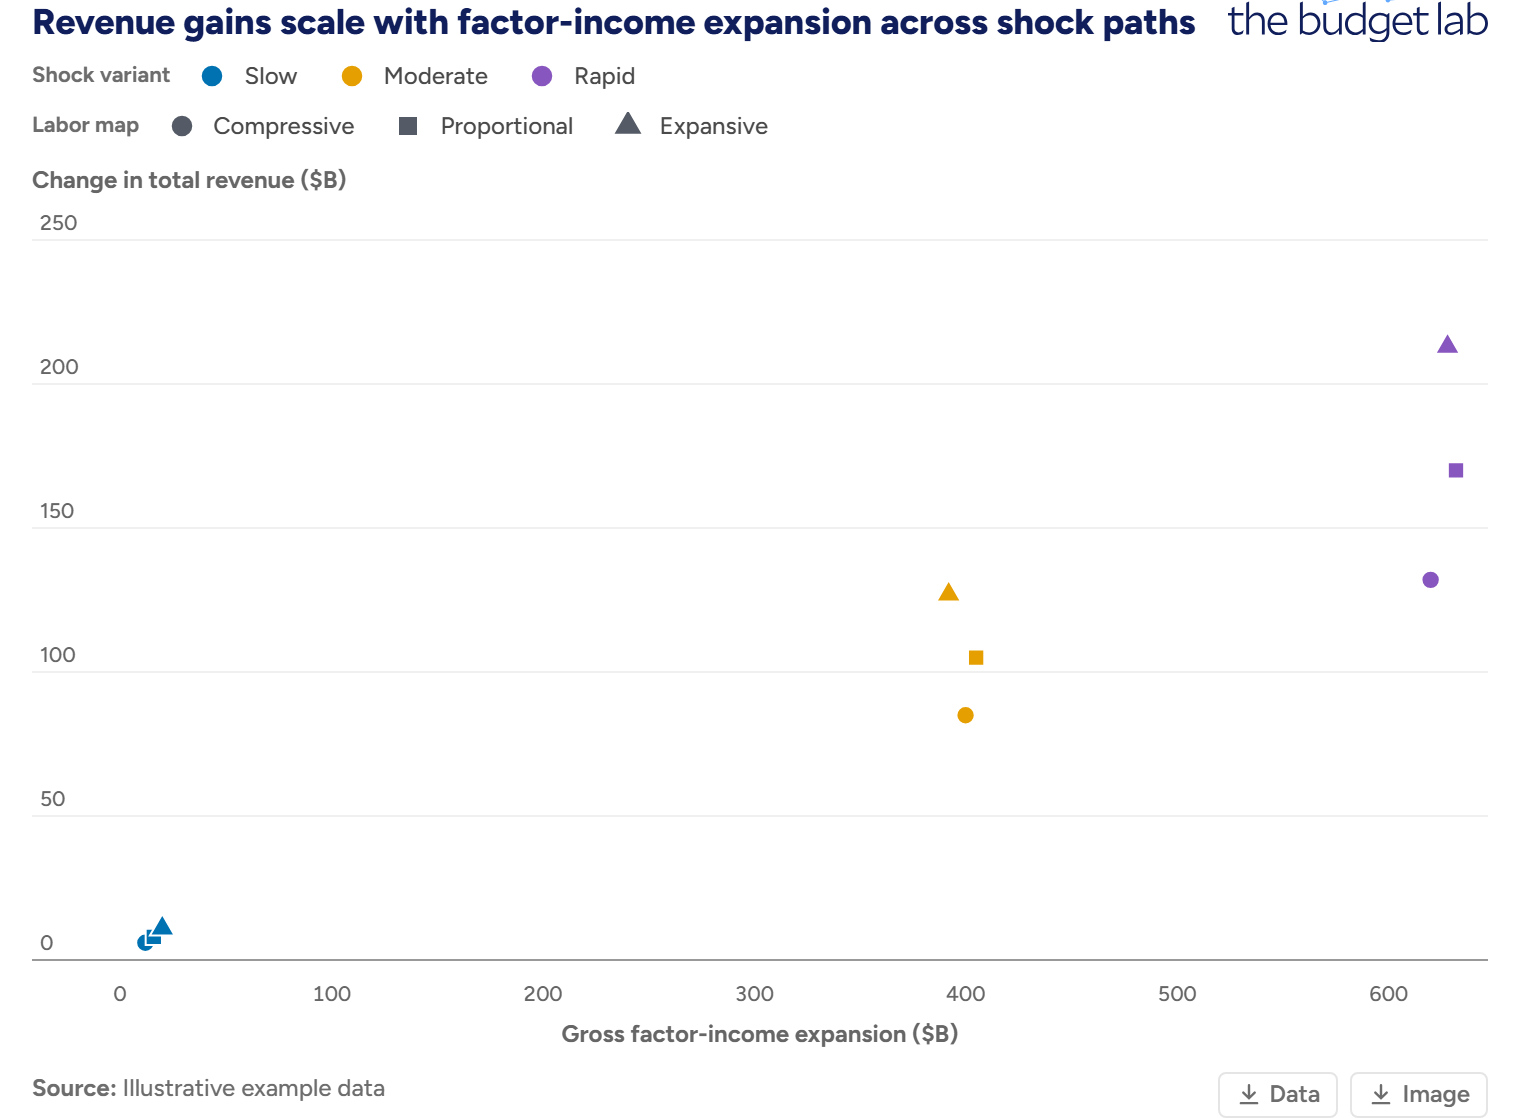
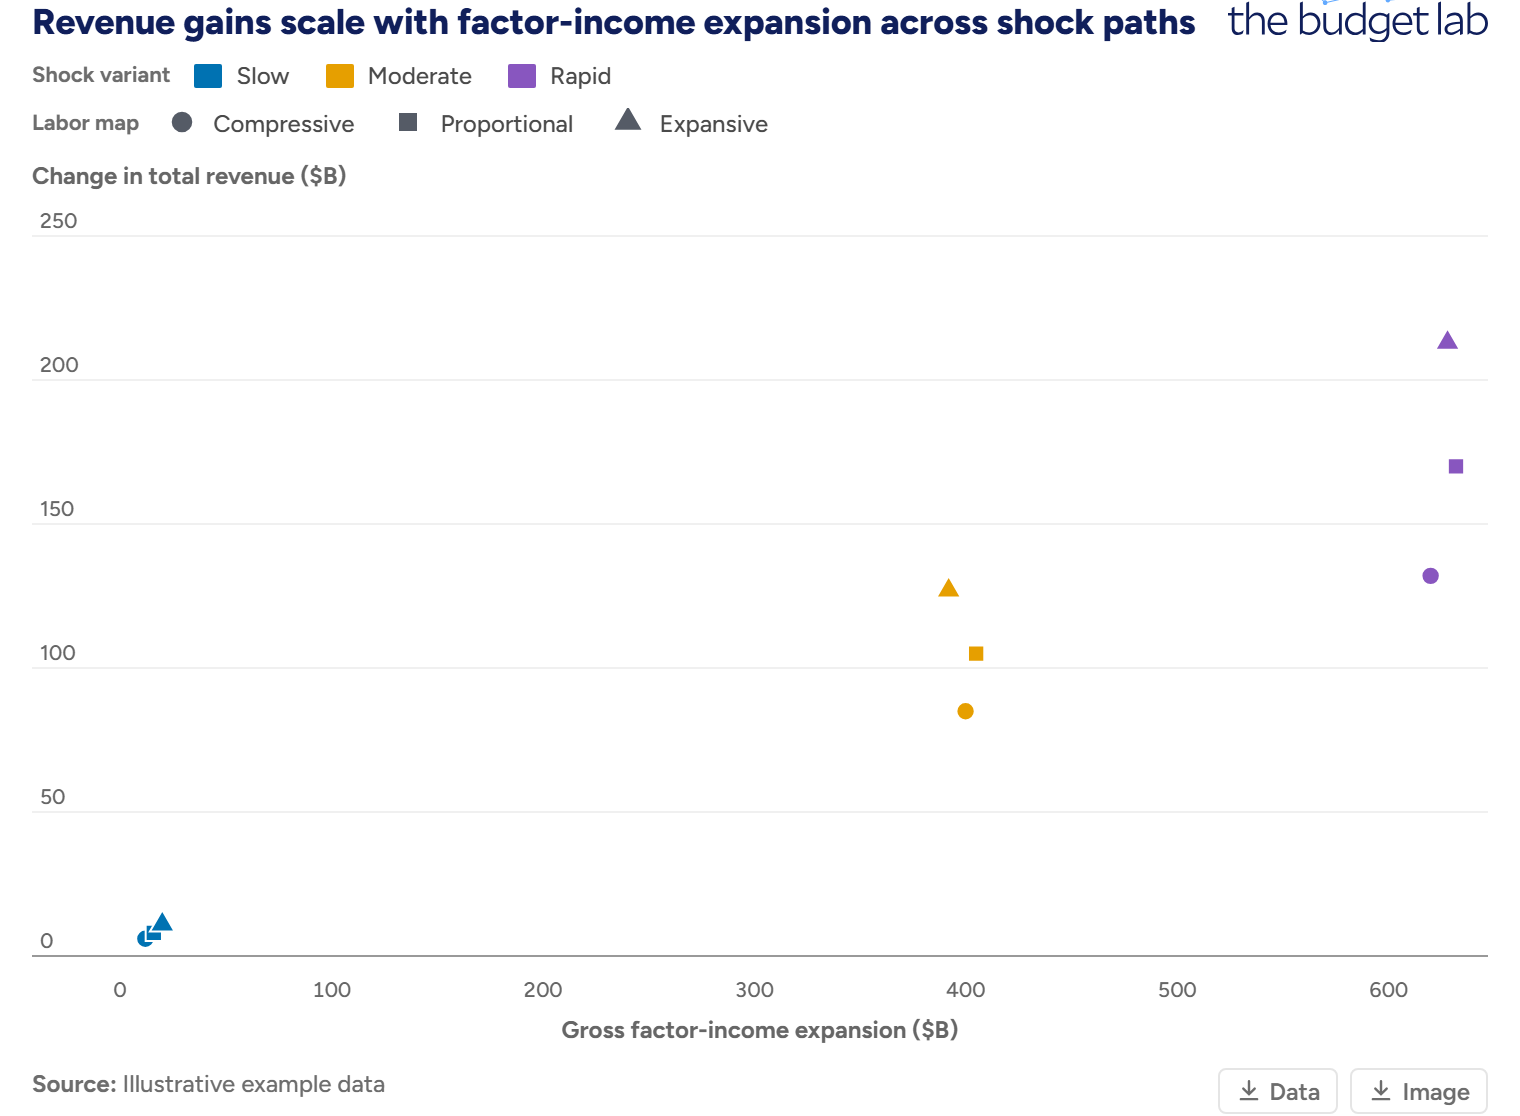
Scatter color-only legend: use a color chip, not an ambiguous point shape
When color and shape are independent (two legends), the color legend used a
circle — which collides with the shape legend's circle (e.g. Compressive). Use
a filled rounded-square color chip instead (reusing the bar legend's rect
swatch). Combined (redundant) and no-shape cases still show the actual marker.
Match the chip in the PNG-export legend too.

diff --git a/src/engine/index.ts b/src/engine/index.ts
@@ -421,14 +421,27 @@ export function buildLegendItems(
   // color → no color legend (the shape legend, if any, stands alone).
   if (chartType === "scatter" || chartType === "dotplot") {
     if (seriesNames.length <= 1) return null;
-    return seriesNames.map((name, i) => ({
-      series: name,
-      label: labelFor(name),
-      color: legendColorFor(name),
-      dashed: false,
-      markerShape: "point" as const,
-      markerSymbol: layers.shapeIsSeries ? markerSymbolForIndex(i) : "circle",
-    }));
+    // A SEPARATE shape legend exists when shape is its own channel (distinct values, not the
+    // series). In that case the color legend must NOT use a point shape (a circle/square here
+    // would be ambiguous with the shape legend's symbols) — use a color chip (rounded square)
+    // instead. Redundant encoding → the combined legend shows the actual colored marker shape;
+    // no shape channel → the actual (circle) marker.
+    const distinctShape = !!(layers.shapeNames && layers.shapeNames.length && !layers.shapeIsSeries);
+    return seriesNames.map((name, i) => {
+      const base = {
+        series: name,
+        label: labelFor(name),
+        color: legendColorFor(name),
+        dashed: false,
+      };
+      if (layers.shapeIsSeries) {
+        return { ...base, markerShape: "point" as const, markerSymbol: markerSymbolForIndex(i) };
+      }
+      if (distinctShape) {
+        return { ...base, markerShape: "rect" as const };
+      }
+      return { ...base, markerShape: "point" as const, markerSymbol: "circle" };
+    });
   }
 
   const markerShape: "line" | "rect" =

diff --git a/src/embed/export-png.ts b/src/embed/export-png.ts
@@ -200,6 +200,12 @@ function drawLegend(
           "stroke-width": 0.75,
         }),
       );
+    } else if (item.markerShape === "rect") {
+      // Color chip — a filled rounded square (color key), matching the live legend's is-rect.
+      const chip = 13;
+      root.appendChild(
+        svgEl("rect", { x: x + (SW - chip) / 2, y: cy - chip / 2, width: chip, height: chip, rx: 2.5, fill: color }),
+      );
     } else {
       root.appendChild(
         svgEl("rect", { x, y: cy - 2, width: SW, height: 4, fill: color }),